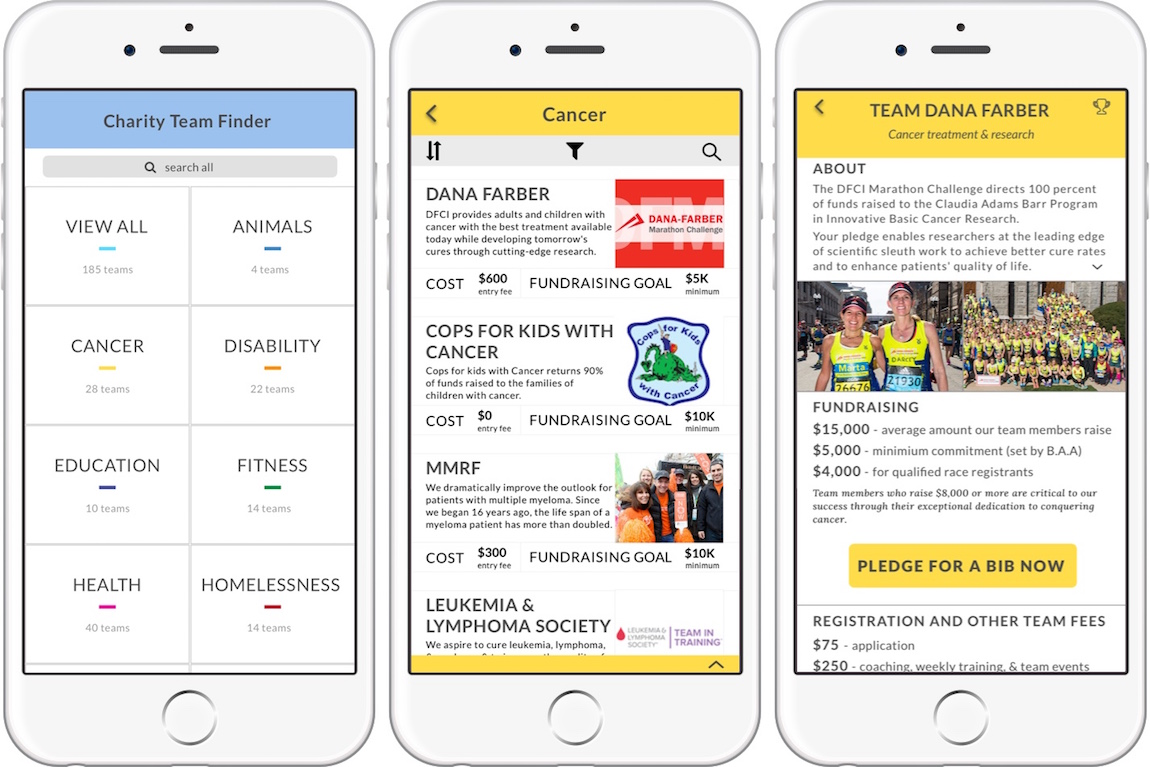
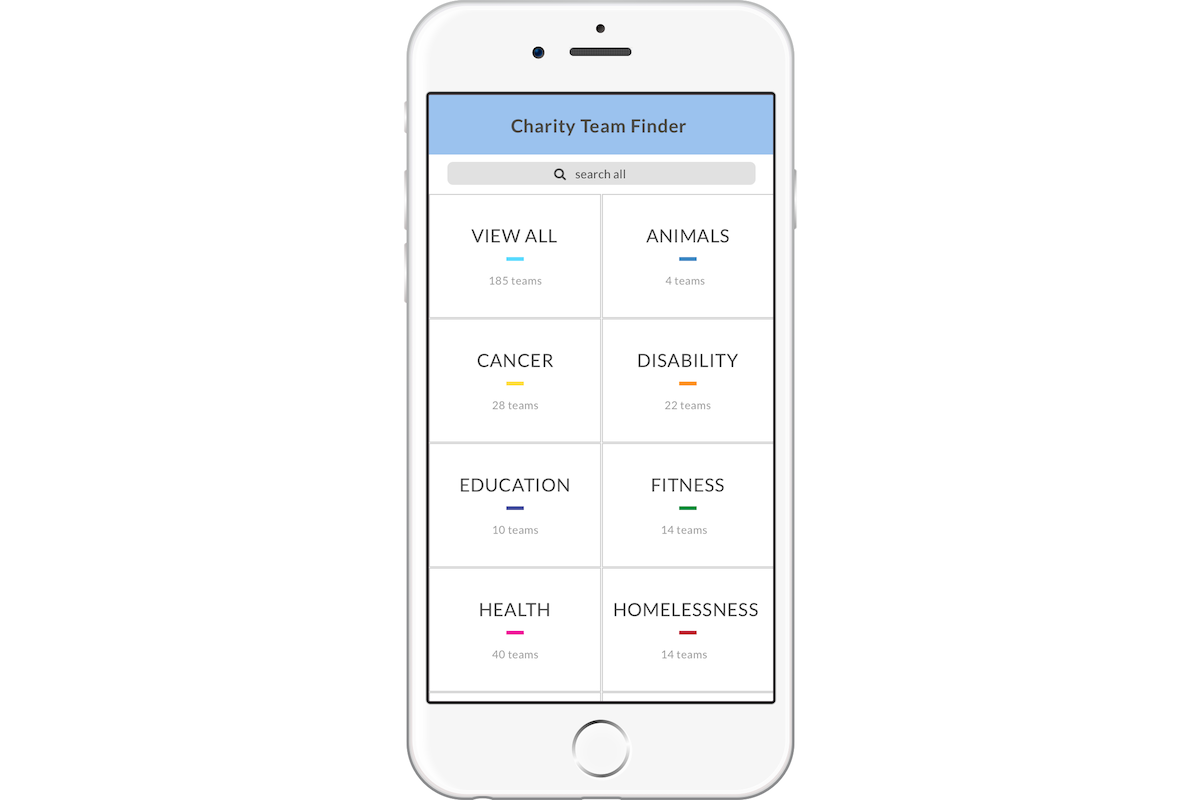
moved prototype to end of page, updated to single phone

diff --git a/marathon.html b/marathon.html
@@ -259,23 +259,7 @@
                     </div>
                 </div>
 
-                <div class="row">
-                    <div class="col-md-12">
-                        <div class="owl-carousel image-slider o-flow-hidden">
-
-                            <div class="item">
-                                <img src="img/portfolio/2.16.jpg" alt="" />
-                            </div>
-                            <div class="item">
-                                <img src="img/portfolio/2.17.jpg" alt="" />
-                            </div>
-                           <!--  <div class="item">
-                                <img src="img/portfolio/5.jpg" alt="" />
-                            </div> -->
-
-                        </div>
-                    </div>
-                </div>
+                
 
                 <div class="row mtb-60 mtb-xs-30">
                     <div class="col-md-4 mb-30">
@@ -695,7 +679,38 @@
                         <h3 class="">Prototype</h3>
                         <p class="mt-15">This is a high fidelity prototype of the Boston Marathon Charity Team Finder.</p>
                         <br />
-                        <a class="btn btn-lg btn-black" href="https://invis.io/ZB7VKYBSY">Try it now</a>
+                    
+                    <div class="row">
+                    <div class="col-md-12">
+                        <div class="owl-carousel image-slider o-flow-hidden">
+
+                            <div class="item">
+                                <img src="img/portfolio/2.16.jpg" alt="" />
+                            </div>
+                            <div class="item">
+                                <img src="img/portfolio/2.17.jpg" alt="" />
+                            </div>
+                            <div class="item">
+                                <img src="img/portfolio/1.16.jpg" alt="" />
+                            </div>
+                            <div class="item">
+                                <img src="img/portfolio/1.17.jpg" alt="" />
+                            </div>
+                            <div class="item">
+                                <img src="img/portfolio/1.18.jpg" alt="" />
+                            </div>
+                            <div class="item">
+                                <img src="img/portfolio/1.19.jpg" alt="" />
+                            </div>
+                            <div class="item">
+                                <img src="img/portfolio/1.20.jpg" alt="" />
+                            </div>
+                        </div>
+                    </div>
+                </div>
+
+                        </br>
+                        <a class="btn btn-lg btn-black" href="https://invis.io/ZB7VKYBSY">Try it on Invision</a>
                     </div>
                 </div>
             </div>
